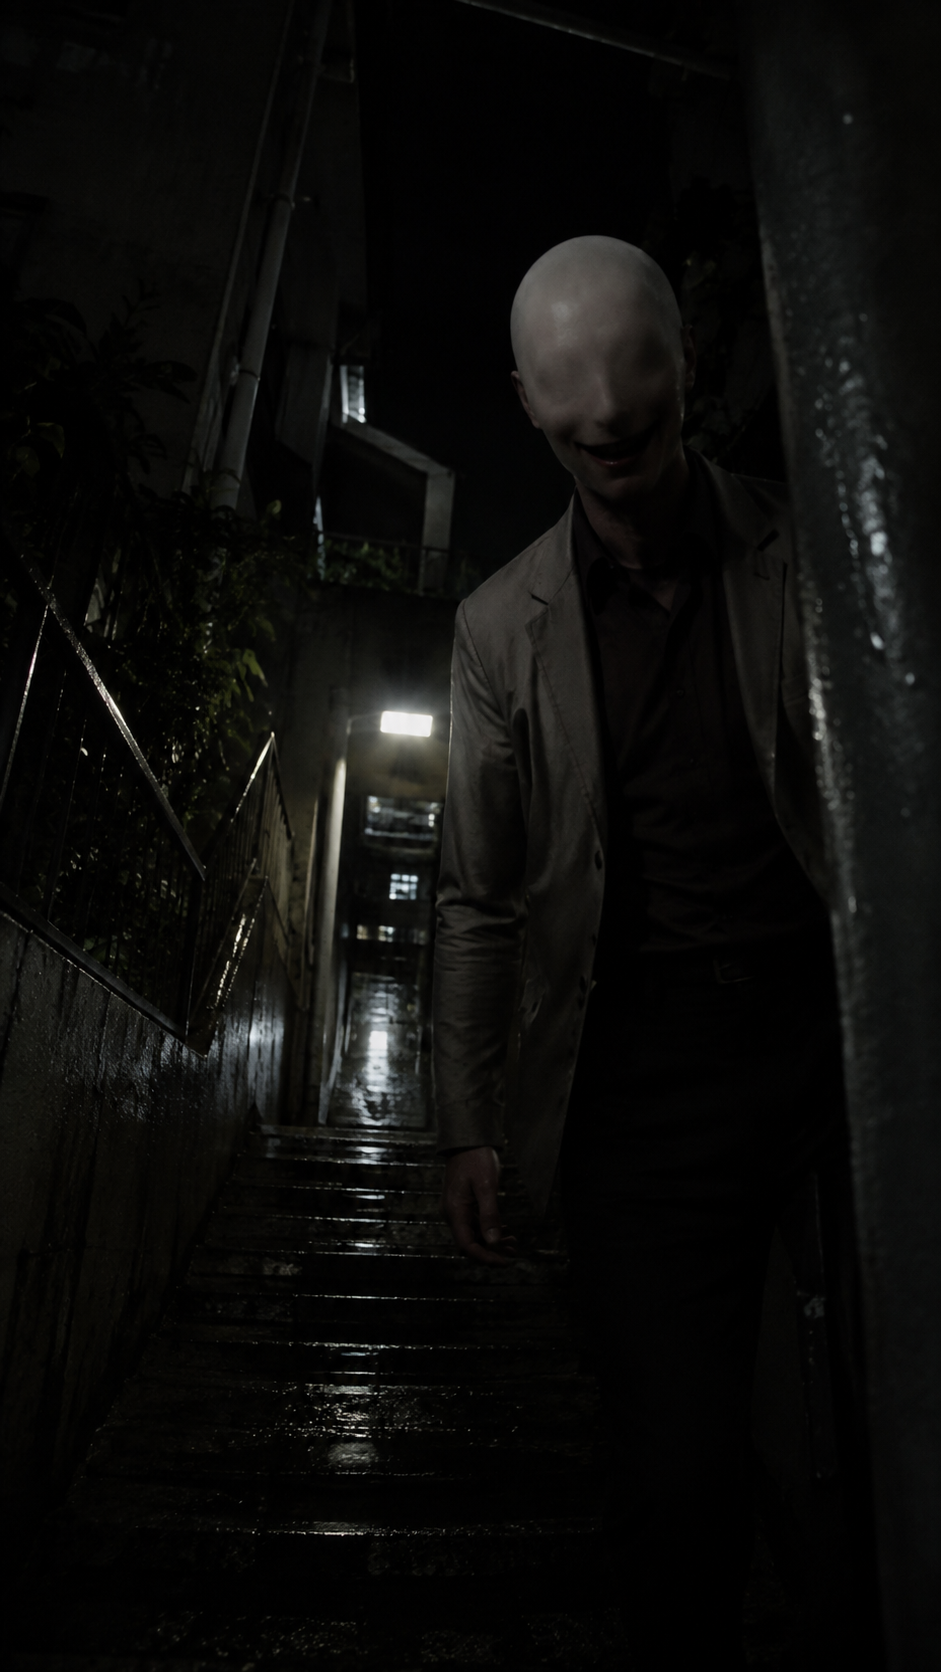
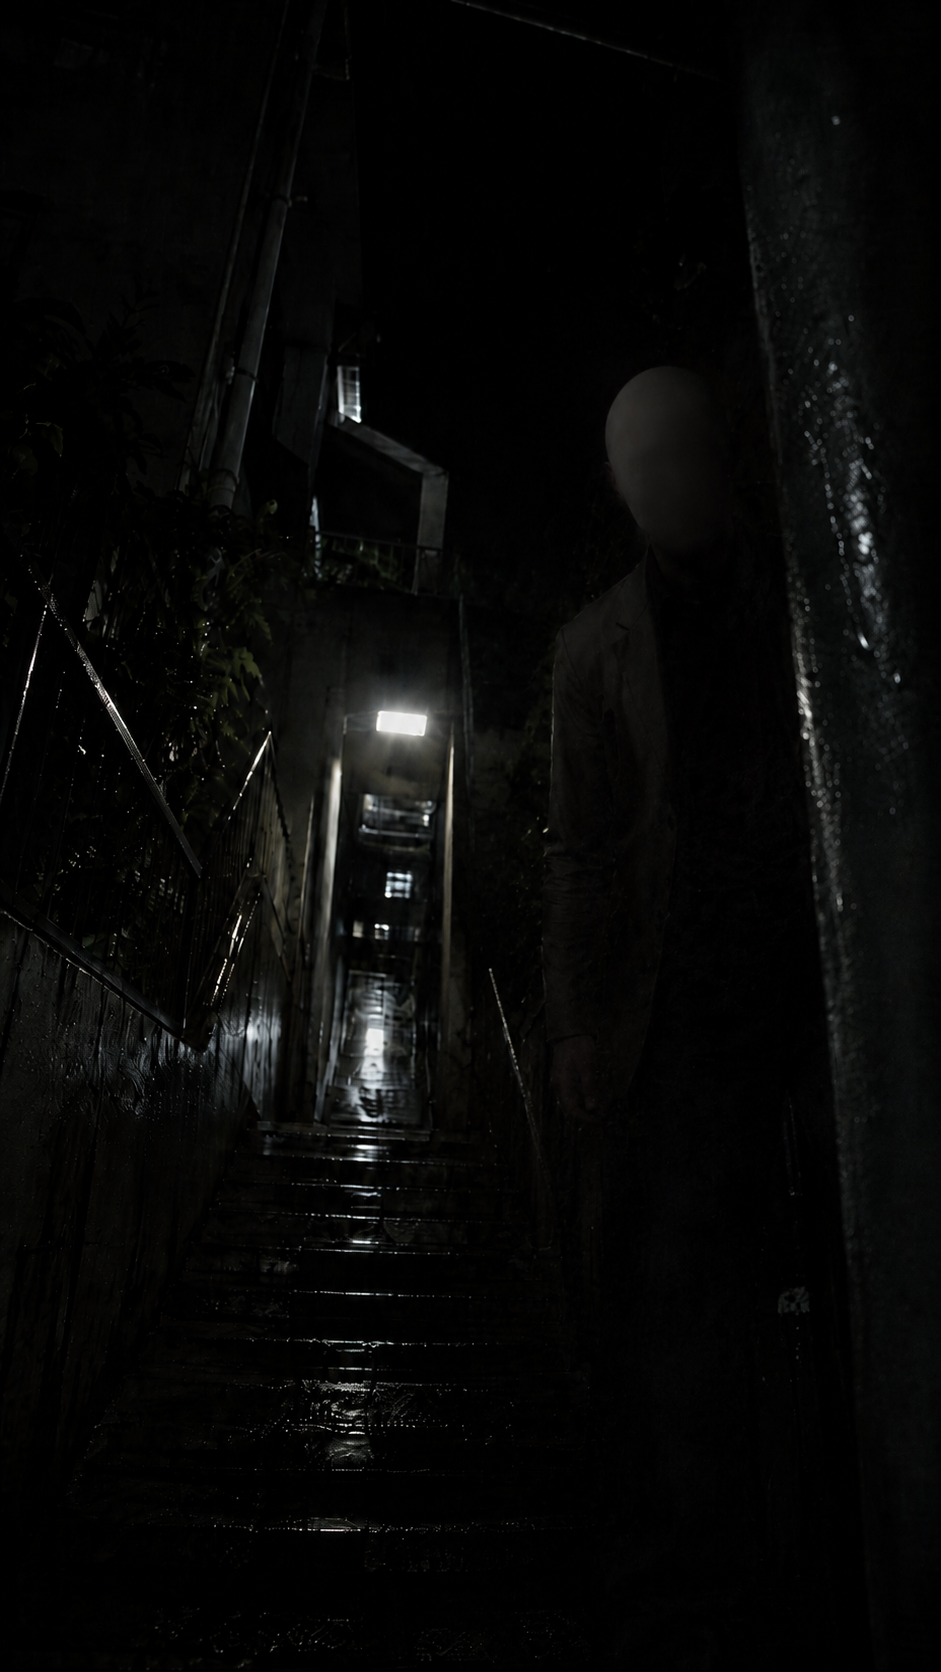
009

diff --git a/archive/takao-black-ascetic/index.html b/archive/takao-black-ascetic/index.html
@@ -1,0 +1,128 @@
+<!doctype html>
+<html lang="ja">
+  <head>
+    <meta charset="UTF-8">
+    <meta name="viewport" content="width=device-width, initial-scale=1.0">
+    <meta name="description" content="東京都八王子市・高尾山の山中で、二足歩行と短距離滑空を繰り返す姿が記録された黒色の人型鳥類。 IDK FILEに収蔵されたフィクション観測記録。">
+    <meta name="theme-color" content="#050807">
+    <meta name="robots" content="index,follow,max-image-preview:large">
+    <title>峰渡烏（Takao Black Ascetic）｜未確認生命体観測記録｜IDK FILE</title>
+    <link rel="icon" type="image/png" sizes="32x32" href="../../assets/favicon-32.png">
+    <link rel="icon" type="image/png" sizes="16x16" href="../../assets/favicon-16.png">
+    <link rel="apple-touch-icon" sizes="180x180" href="../../assets/apple-touch-icon.png">
+    <link rel="preload" as="image" href="../../assets/archive/009_1.png">
+    <link rel="stylesheet" href="../../css/style.css?v=20260822-2">
+    <script src="../../js/record-page.js?v=20260822-1" defer></script>
+  </head>
+  <body class="record-page">
+    <a class="skip-link" href="#record-content">観測記録へ移動</a>
+
+    <header class="site-header">
+      <a class="brand" href="../../index.html" aria-label="IDK FILE トップへ">
+        <img class="brand__icon" src="../../assets/idk-icon-64.png" alt="" width="64" height="64">
+        <span class="brand__name">IDK FILE</span>
+        <span class="brand__division">XENO ARCHIVE</span>
+      </a>
+      <nav class="site-nav" aria-label="メインナビゲーション">
+        <a href="../../index.html?about=open">About</a>
+        <a href="../../index.html#archive" aria-current="page">Archive</a>
+        <a href="../../contact.html">Contact</a>
+      </nav>
+      <div class="system-status" aria-label="アーカイブ稼働中">
+        <span class="system-status__light" aria-hidden="true"></span>
+        System online
+      </div>
+    </header>
+
+    <main class="record-page__main" id="record-content">
+      <nav class="record-page__breadcrumb" aria-label="パンくずリスト">
+        <ol>
+          <li><a href="../../index.html">IDK FILE</a></li>
+          <li><a href="../../index.html#archive">Archive</a></li>
+          <li aria-current="page"><ruby class="archive-name-ruby">峰渡烏<rp>（</rp><rt>ミネワタリガラス</rt><rp>）</rp></ruby></li>
+        </ol>
+      </nav>
+
+      <article class="record-detail record-detail--page">
+        <div class="record-detail__visual archive-slideshow" data-record-slideshow data-image-alt="峰渡烏の拡大画像">
+
+            <img
+              class="archive-slideshow__image is-active"
+              src="../../assets/archive/009_1.png"
+              alt="峰渡烏の観測画像"
+              width="941"
+              height="1672"
+              data-image-position="center"
+              fetchpriority="high"
+              decoding="async"
+            >
+            <img
+              class="archive-slideshow__image"
+              src="../../assets/archive/009_2.png"
+              alt=""
+              width="941"
+              height="1672"
+              data-image-position="center"
+              loading="lazy" aria-hidden="true"
+              decoding="async"
+            >
+          <span class="record-detail__scan is-playing" aria-hidden="true"></span>
+          <p>Visual record / 009</p>
+            <div class="archive-slideshow__indicators" role="group" aria-label="表示画像を選択">
+              <button class="archive-slideshow__indicator is-active" type="button" data-slide-index="0" aria-label="画像 1 / 2 を表示" aria-current="true"><span aria-hidden="true"></span></button>
+              <button class="archive-slideshow__indicator" type="button" data-slide-index="1" aria-label="画像 2 / 2 を表示" aria-current="false"><span aria-hidden="true"></span></button>
+            </div>
+        </div>
+        <div class="record-detail__content">
+          <div class="record-detail__topline">
+            <span>FILE // 009</span>
+            <span class="archive-card__risk archive-card__risk--gamma">Gamma risk</span>
+          </div>
+          <p class="record-detail__taxonomy">飛行-Aerial / Observed</p>
+          <h1>Takao Black Ascetic</h1>
+          <p class="record-detail__ja"><ruby class="archive-name-ruby">峰渡烏<rp>（</rp><rt>ミネワタリガラス</rt><rp>）</rp></ruby></p>
+          <section class="record-detail__summary record-detail__bilingual" aria-labelledby="summary-009">
+            <h2 class="sr-only" id="summary-009">観測概要</h2>
+            <p lang="ja">東京都八王子市・高尾山の山中で、二足歩行と短距離滑空を繰り返す姿が記録された黒色の人型鳥類。</p>
+            <p class="record-detail__english" lang="en"><span>EN</span>A black humanoid avian life form recorded on Mt. Takao in Hachioji, Tokyo, repeatedly alternating between bipedal movement and short-distance gliding.</p>
+          </section>
+          <section class="record-detail__description record-detail__bilingual" aria-labelledby="description-009">
+            <h2 class="sr-only" id="description-009">観測記録詳細</h2>
+            <p lang="ja">最初の記録では、対象は日の出前の登山道を約6分間にわたり二足で移動していた。体高は推定150〜165cm。全身は光沢の弱い黒色羽毛に覆われ、腕部から脇腹にかけて発達した風切羽を持つ。人間を察知すると樹上へ飛び立つのではなく、急斜面を駆け上がった後に両腕を展開し、谷を横切るように滑空した。これまで羽ばたきによる継続飛行は確認されておらず、高所から低所へ移動する際だけ翼状器官を使用すると考えられている。地上では両翼を身体の側面へ垂らすため、遠方からは黒衣をまとった痩身の人物にも見える。高尾山は古くから修験道の霊山として知られ、薬王院では飯縄大権現の眷属として天狗が信仰されてきた。なかでも嘴を持つ烏天狗の姿は、本個体の頭部形態と著しく類似する。山伏の姿が天狗と同一視されていったという伝承的背景とは別に、山中で目撃された未知の人型鳥類が『山を自在に移動する黒い行者』として認識され、その特徴が後世の天狗像へ混入した可能性も否定できない。対象が登山道を頻繁に利用する理由は不明だが、複数の記録で人間の後方を一定距離を保ちながら追従する行動が確認されている。追跡なのか模倣なのか、あるいは単に人間が切り開いた経路を移動に利用しているだけなのかは判明していない。</p>
+            <p class="record-detail__english" lang="en"><span>EN</span>In the earliest record, the subject moved bipedally along a mountain trail for approximately six minutes before sunrise. Its standing height is estimated at 150–165 cm. The body is covered in low-gloss black plumage, with elongated flight feathers extending from the arms toward the flanks. When it detected human presence, it did not take off vertically into the trees. Instead, it climbed a steep slope at speed, spread both arms, and glided across a ravine. Sustained powered flight through wingbeats has never been confirmed, suggesting that the wing-like structures are used primarily for descending or crossing gaps between elevated terrain. When folded against the body, the wings hang along its sides, causing the subject to resemble a thin human figure dressed in black robes when viewed from a distance. Mt. Takao has long been associated with Shugendo mountain asceticism, and tengu are traditionally revered at Yakuoin Temple as attendants of Iizuna Daigongen. Of particular interest is the crow-beaked karasu-tengu, whose appearance bears a notable resemblance to the subject&#39;s cranial morphology. Separate from the traditional interpretation that mountain ascetics themselves contributed to the image of the tengu, it is possible that encounters with an unidentified humanoid avian species were remembered as sightings of &#39;black ascetics moving freely through the mountains,&#39; with these characteristics later becoming incorporated into tengu imagery. Why the subject frequently uses established hiking trails remains unknown. Multiple records show individuals following humans from behind while maintaining a consistent distance. Whether this behavior represents pursuit, imitation, or simply the use of human-made paths as convenient travel corridors has yet to be determined.</p>
+          </section>
+          <dl class="record-detail__meta">
+            <div><dt>Location</dt><dd>Mt. Takao, Hachioji, Tokyo, JP</dd></div>
+            <div><dt>Recorded</dt><dd><time datetime="2013-11-07">2013.11.07</time></dd></div>
+            <div><dt>Status</dt><dd>Observed</dd></div>
+          </dl>
+          <div class="record-detail__traits" aria-label="個体特性">
+            <span>黒色羽毛</span>
+            <span>二足歩行</span>
+            <span>斜面滑空</span>
+          </div>
+          <aside class="record-page__disclaimer">
+            本記録は、伝承・未確認情報・思弁的生物学から着想を得たフィクション・ドキュメンテーションです。
+          </aside>
+        </div>
+      </article>
+
+      <nav class="record-page__pager" aria-label="前後の観測記録">
+        <a href="../adze-nullwing/"><span>← Previous record</span><strong>核盗りアゼ / Adze Nullwing</strong></a>
+        <a href="../kappa/"><span>Next record →</span><strong>河童 / Kappa</strong></a>
+      </nav>
+    </main>
+
+    <footer class="site-footer">
+      <a class="brand brand--footer" href="../../index.html">
+        <img class="brand__icon" src="../../assets/idk-icon-64.png" alt="" width="64" height="64">
+        <span class="brand__name">IDK FILE</span>
+      </a>
+      <div class="site-footer__meta">
+        <p>Independent unidentified lifeform archive.</p>
+        <p class="site-footer__copyright">&copy; <time datetime="2026">2026</time> IDK FILE. All rights reserved.</p>
+      </div>
+      <a class="site-footer__action" href="../../index.html#archive">Return to archive</a>
+    </footer>
+  </body>
+</html>

diff --git a/js/archive-data.js b/js/archive-data.js
@@ -212,4 +212,29 @@ window.IDK_ARCHIVE = [
     descriptionEn: "The feature that first identified the specimen as anomalous was not its size, but the tissue surrounding its bite. Mammalian samples showed extensive loss of cellular nuclei, while chromosomal DNA had been fragmented beyond reconstruction by conventional analysis. An unidentified factor isolated from the salivary glands does not appear to dissolve DNA directly. Instead, it forces nucleic-acid degradation mechanisms already present within host cells into abnormal activity. Nucleobases and nucleosides released from the collapsing tissue are ingested together with blood, and a portion of this material rapidly accumulates in the ovaries and damaged tissues of the specimen. The species may therefore depend on other organisms for molecular components it cannot synthesize efficiently on its own, reusing them for DNA repair and reproduction. Body size varies dramatically throughout development. Newly emerged specimens measure only around 20 mm, while mature individuals that have completed multiple feeding cycles commonly reach approximately 70 to 90 mm. During egg development, the abdomen expands further, and some recorded females have possessed a body mass approaching the size of an adult human fist even without including the legs. This extreme difference in scale may explain why small flying specimens and much larger individuals were historically treated as unrelated organisms. Despite its size, flight produces remarkably little audible noise, and the terminal abdomen emits a faint yellow-green luminescence in darkness. Among the Ewe peoples of West Africa, traditions describe an entity known as the 'Adze,' said to enter homes at night in the form of a small flying creature, drink human blood, and leave its victims weakened or ill. No direct connection between the folklore and this specimen has been established. However, several details overlap with unusual precision: nocturnal intrusion, near-silent flight, faint luminescence, attacks during sleep, and unexplained physical decline afterward. Some historical accounts interpreted as victims having their 'blood taken' may have involved something more fundamental—the extraction of living cells and genetic material at the molecular level.",
     traits: ["核酸分解", "段階的巨大化", "無音飛翔"]
   },
+  {
+    id: "009",
+    slug: "takao-black-ascetic",
+    name: "Takao Black Ascetic",
+    nameJa: "峰渡烏",
+    nameJaRuby: { text: "峰渡烏", reading: "ミネワタリガラス" },
+    category: "aerial",
+    categoryLabel: "飛行-Aerial",
+    risk: "gamma",
+    riskLabel: "Gamma risk",
+    status: "Observed",
+    image: [
+      "assets/archive/009_1.png",
+      "assets/archive/009_2.png"
+    ],
+    imagePosition: "center",
+    instagram: "",
+    location: "Mt. Takao, Hachioji, Tokyo, JP",
+    recorded: "2013.11.07",
+    summary: "東京都八王子市・高尾山の山中で、二足歩行と短距離滑空を繰り返す姿が記録された黒色の人型鳥類。",
+    summaryEn: "A black humanoid avian life form recorded on Mt. Takao in Hachioji, Tokyo, repeatedly alternating between bipedal movement and short-distance gliding.",
+    description: "最初の記録では、対象は日の出前の登山道を約6分間にわたり二足で移動していた。体高は推定150〜165cm。全身は光沢の弱い黒色羽毛に覆われ、腕部から脇腹にかけて発達した風切羽を持つ。人間を察知すると樹上へ飛び立つのではなく、急斜面を駆け上がった後に両腕を展開し、谷を横切るように滑空した。これまで羽ばたきによる継続飛行は確認されておらず、高所から低所へ移動する際だけ翼状器官を使用すると考えられている。地上では両翼を身体の側面へ垂らすため、遠方からは黒衣をまとった痩身の人物にも見える。高尾山は古くから修験道の霊山として知られ、薬王院では飯縄大権現の眷属として天狗が信仰されてきた。なかでも嘴を持つ烏天狗の姿は、本個体の頭部形態と著しく類似する。山伏の姿が天狗と同一視されていったという伝承的背景とは別に、山中で目撃された未知の人型鳥類が『山を自在に移動する黒い行者』として認識され、その特徴が後世の天狗像へ混入した可能性も否定できない。対象が登山道を頻繁に利用する理由は不明だが、複数の記録で人間の後方を一定距離を保ちながら追従する行動が確認されている。追跡なのか模倣なのか、あるいは単に人間が切り開いた経路を移動に利用しているだけなのかは判明していない。",
+    descriptionEn: "In the earliest record, the subject moved bipedally along a mountain trail for approximately six minutes before sunrise. Its standing height is estimated at 150–165 cm. The body is covered in low-gloss black plumage, with elongated flight feathers extending from the arms toward the flanks. When it detected human presence, it did not take off vertically into the trees. Instead, it climbed a steep slope at speed, spread both arms, and glided across a ravine. Sustained powered flight through wingbeats has never been confirmed, suggesting that the wing-like structures are used primarily for descending or crossing gaps between elevated terrain. When folded against the body, the wings hang along its sides, causing the subject to resemble a thin human figure dressed in black robes when viewed from a distance. Mt. Takao has long been associated with Shugendo mountain asceticism, and tengu are traditionally revered at Yakuoin Temple as attendants of Iizuna Daigongen. Of particular interest is the crow-beaked karasu-tengu, whose appearance bears a notable resemblance to the subject's cranial morphology. Separate from the traditional interpretation that mountain ascetics themselves contributed to the image of the tengu, it is possible that encounters with an unidentified humanoid avian species were remembered as sightings of 'black ascetics moving freely through the mountains,' with these characteristics later becoming incorporated into tengu imagery. Why the subject frequently uses established hiking trails remains unknown. Multiple records show individuals following humans from behind while maintaining a consistent distance. Whether this behavior represents pursuit, imitation, or simply the use of human-made paths as convenient travel corridors has yet to be determined.",
+    traits: ["黒色羽毛", "二足歩行", "斜面滑空"]
+  },
 ];

diff --git a/archive/adze-nullwing/index.html b/archive/adze-nullwing/index.html
@@ -120,7 +120,7 @@
 
       <nav class="record-page__pager" aria-label="前後の観測記録">
         <a href="../red-false-maw/"><span>← Previous record</span><strong><ruby class="archive-name-ruby">腹口猩々<rp>（</rp><rt>ハラグチショウジョウ</rt><rp>）</rp></ruby> / Red False-Maw</strong></a>
-        <a href="../kappa/"><span>Next record →</span><strong>河童 / Kappa</strong></a>
+        <a href="../takao-black-ascetic/"><span>Next record →</span><strong><ruby class="archive-name-ruby">峰渡烏<rp>（</rp><rt>ミネワタリガラス</rt><rp>）</rp></ruby> / Takao Black Ascetic</strong></a>
       </nav>
     </main>
 

diff --git a/archive/kappa/index.html b/archive/kappa/index.html
@@ -108,7 +108,7 @@
       </article>
 
       <nav class="record-page__pager" aria-label="前後の観測記録">
-        <a href="../adze-nullwing/"><span>← Previous record</span><strong>核盗りアゼ / Adze Nullwing</strong></a>
+        <a href="../takao-black-ascetic/"><span>← Previous record</span><strong><ruby class="archive-name-ruby">峰渡烏<rp>（</rp><rt>ミネワタリガラス</rt><rp>）</rp></ruby> / Takao Black Ascetic</strong></a>
         <a href="../noppera-bo/"><span>Next record →</span><strong>のっぺらぼう / Noppera-bo</strong></a>
       </nav>
     </main>

diff --git a/index.html b/index.html
@@ -10,7 +10,7 @@
     <link rel="icon" type="image/png" sizes="16x16" href="assets/favicon-16.png">
     <link rel="apple-touch-icon" sizes="180x180" href="assets/apple-touch-icon.png">
     <link rel="stylesheet" href="css/style.css?v=20260822-2">
-    <script src="js/archive-data.js?v=20260822-2" defer></script>
+    <script src="js/archive-data.js?v=20260823-1" defer></script>
     <script src="js/archive-render.js?v=20260822-3" defer></script>
   </head>
   <body class="archive-home">
